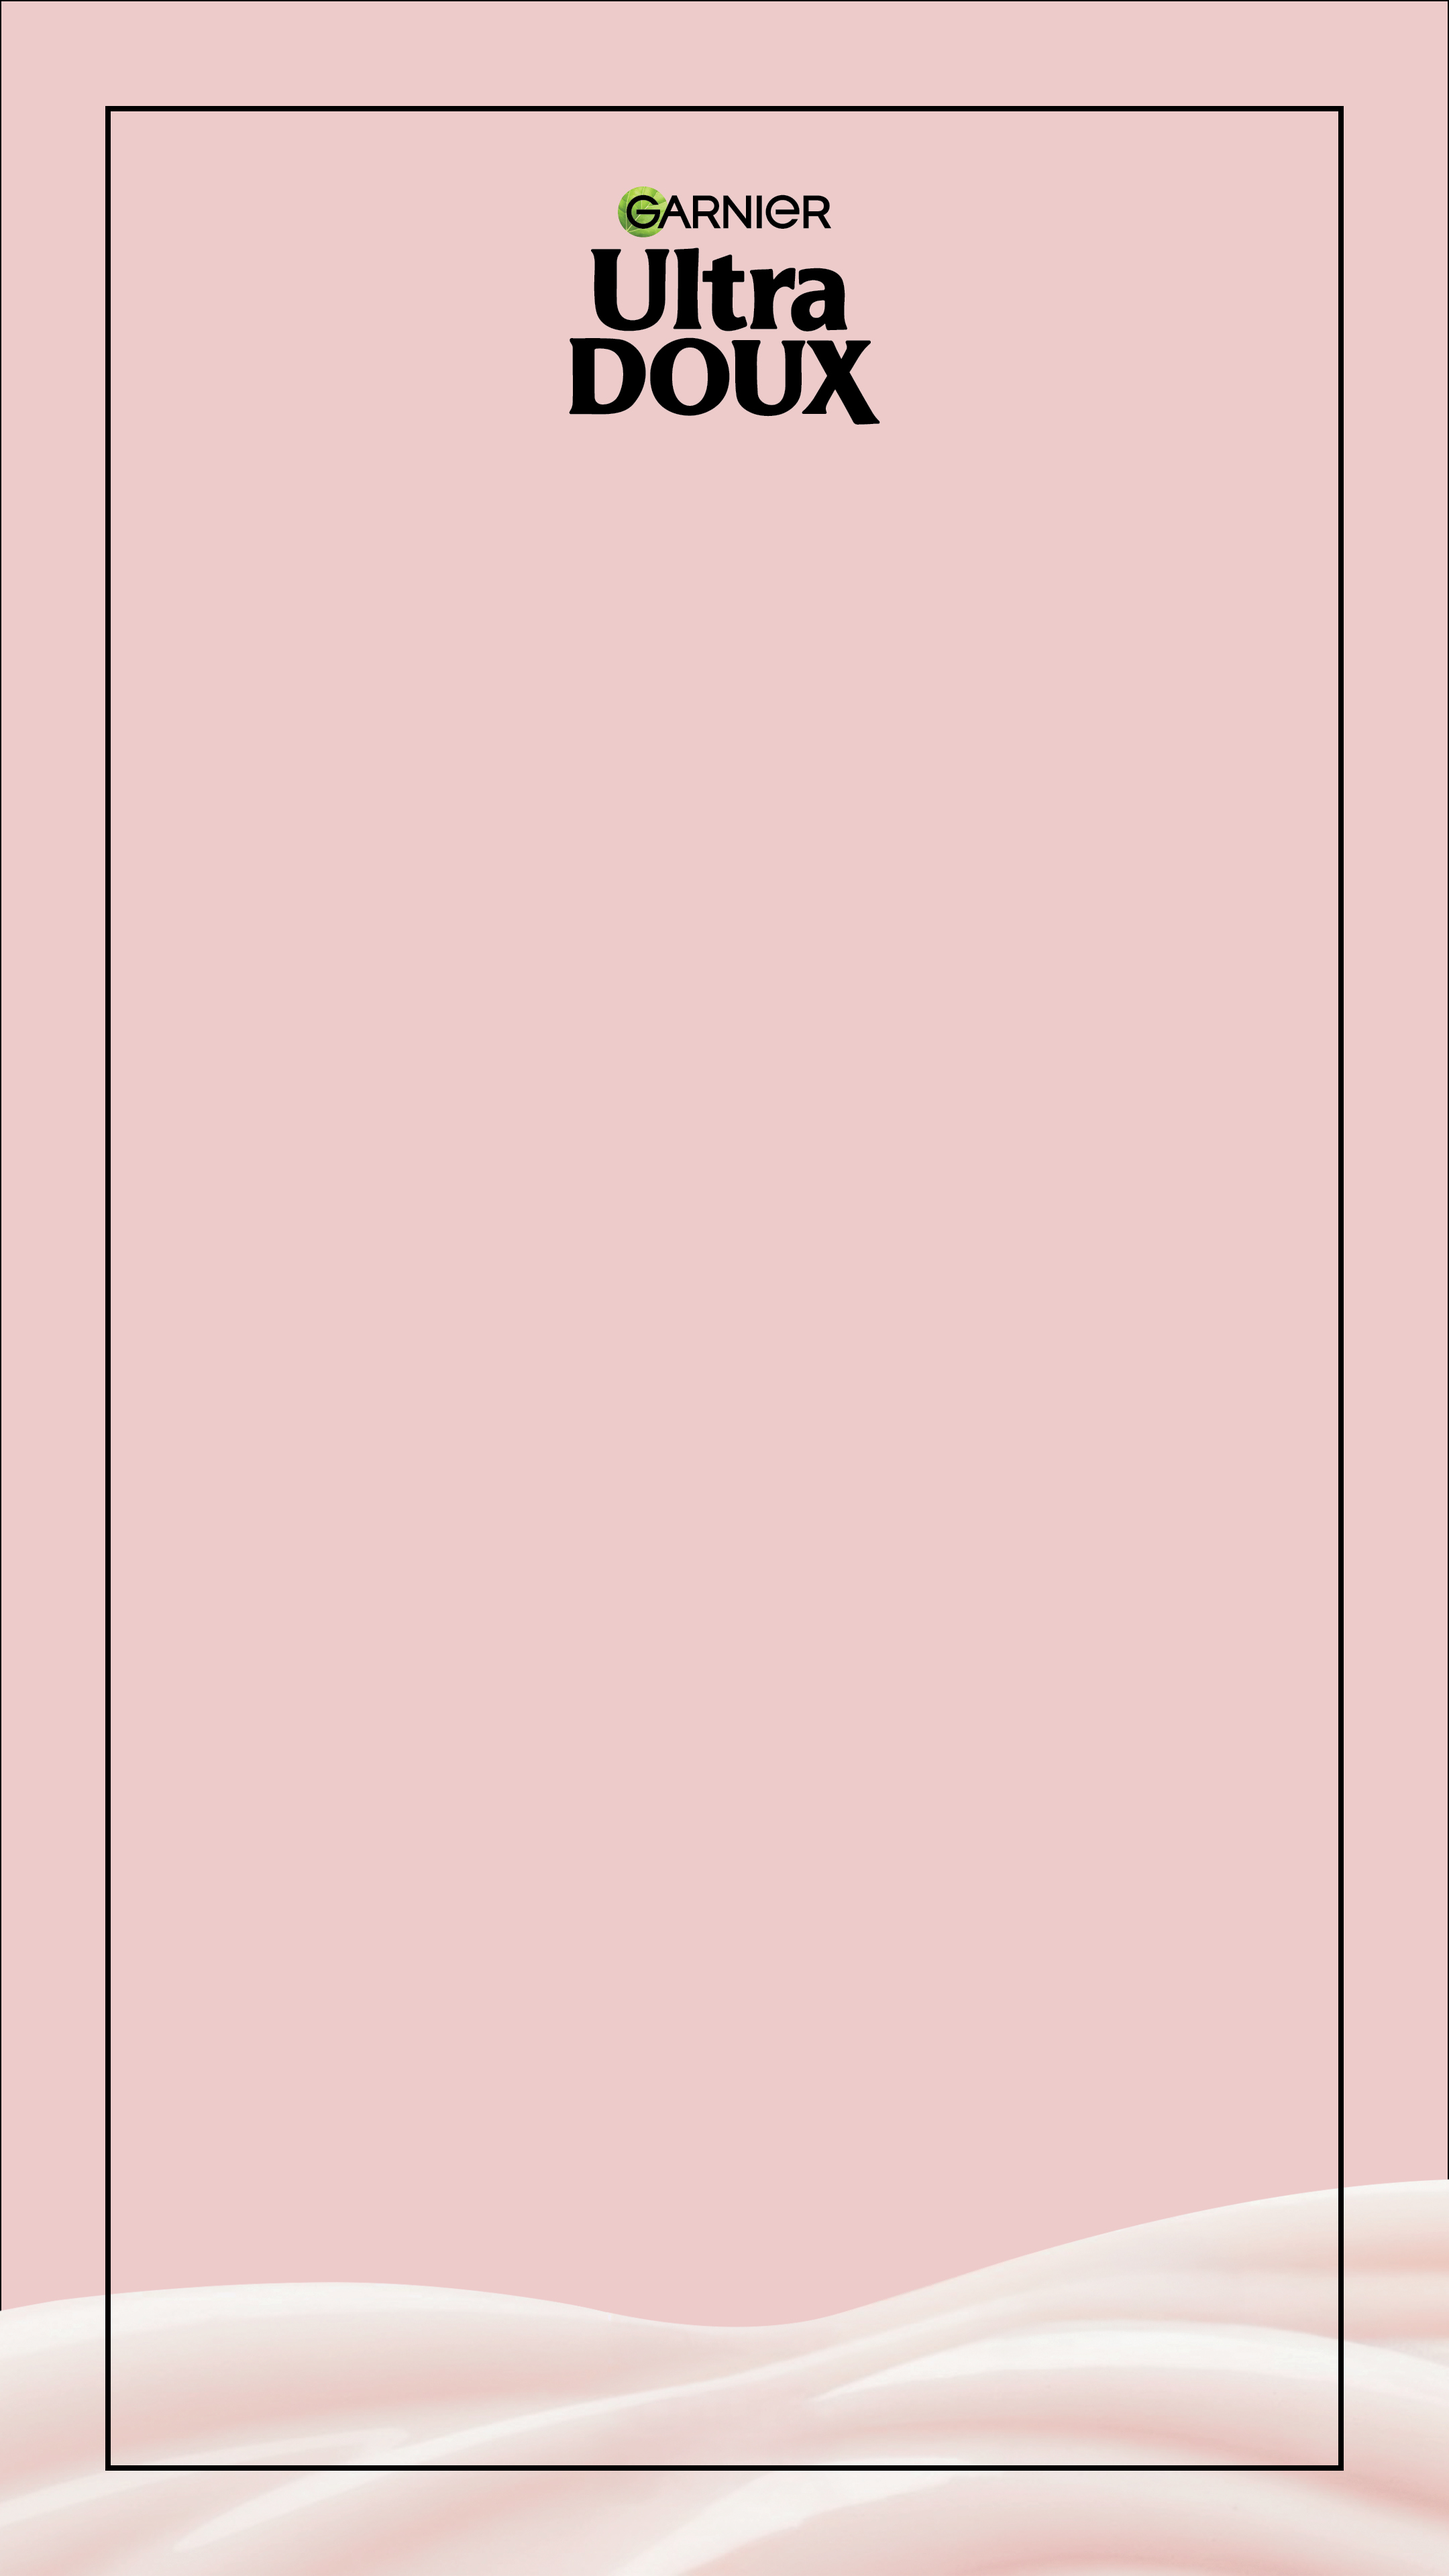
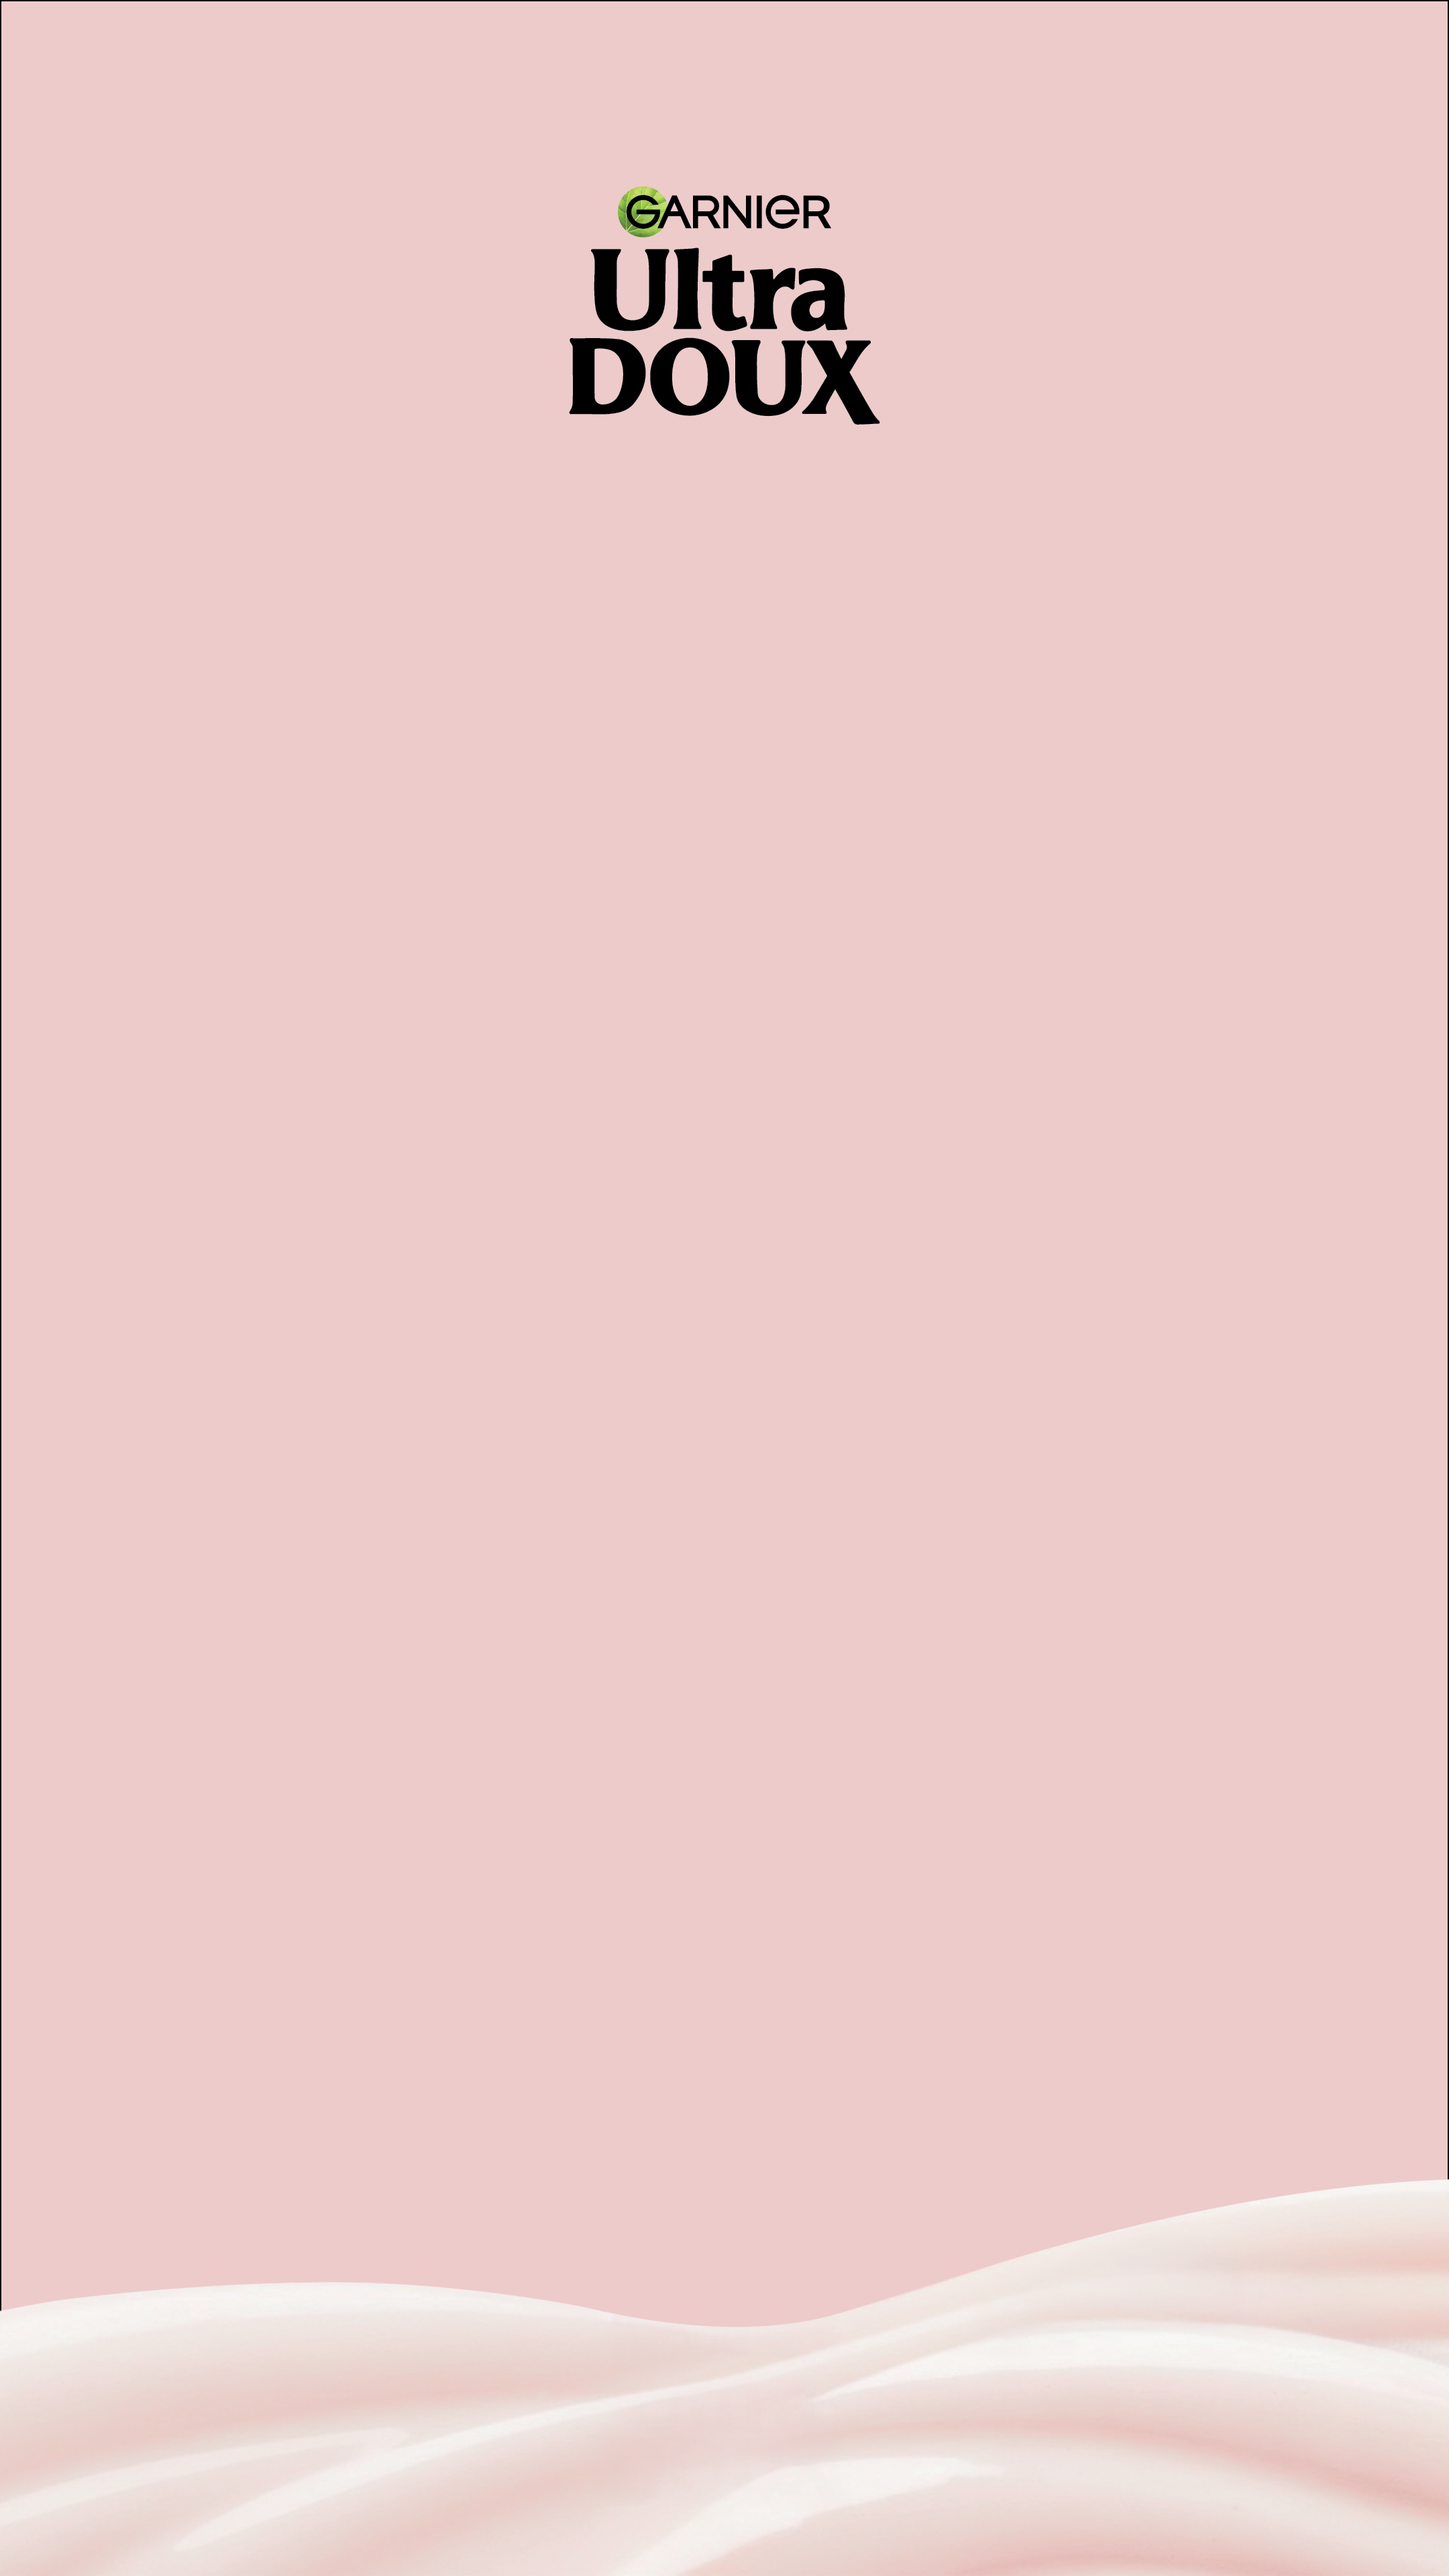
ajustes

Changed region(s): [[0.8995, 0.0312, 0.9306, 0.9688], [0.062, 0.0312, 0.0931, 0.9688]]

diff --git a/css/style.css b/css/style.css
@@ -24,26 +24,36 @@ body {
   display: flex;
   justify-content: center;
   align-items: center;
-  min-height: 100svh;
+  min-height: 100vh;
+}
+.border{
+  display: flex;
+  justify-content: center;
+  align-items: center;
+  border: #000 solid 2px;
+  width: 90%;
+  height: 95svh;
+  z-index: 1;
 }
 
 
 .game-container {
     position: relative;
-    width: 100vw;
-    height: 100svh;
-    max-width: 56.25vh; /* 9:16 aspect ratio */
-    max-height: 177.78vw; /* 16:9 aspect ratio inverted */
-    background: #87CEEB;
+    width: min(100vw, 56.25vh);
+    aspect-ratio: 9 / 16;
     overflow: hidden;
     border-radius: 0;
+    touch-action: none;
+    display: flex;
+    justify-content: center;
+    align-items: center;
 }
 
 
 #backgroundImage {
     position: absolute;
     width: 100%;
-    height: 100svh;
+    height: 100%;
     z-index: 1;
     left: 0;
     top:0;
@@ -52,11 +62,10 @@ body {
 
 #bolhaPrincipal{
   width: 80%;
-  left: 10%;
-  bottom: 45svh;
+  margin-top: 25vh;
   margin-bottom: auto;
   z-index: 2;
-  position: absolute;
+  position: relative;
   animation: zoomSuave 3s ease-in-out infinite;
 }
 
@@ -105,9 +114,28 @@ body {
   position: absolute;
   inset: 0;
   width: 100%;
-  height: 100svh;
+  height: 100%;
 }
 
+/* Vídeo de fundo (nuvens) */
+#backgroundVideo {
+  z-index: 1;
+  object-fit: cover;
+  opacity: 0.8;
+  will-change: transform; /* ajuda em escala/resizes */
+}
+
+#userCamera {
+  position: absolute;
+  inset: 0;
+  width: 100%;
+  height: 100%;
+  object-fit: cover;
+  z-index: 2;    /* acima do fundo, abaixo das bolhas */
+  opacity: 1;    /* visível */
+  transform: scaleX(-1); /* espelho (tire se não quiser) */
+  display: block;
+}
 
 
 @keyframes blink {
@@ -127,17 +155,23 @@ body {
 
 #texto_final{
     position: absolute;
-    bottom: 45svh;
-    left: 50%;
-    transform: translate(-50%, -50%);
-    width: 72%;
-    z-index: 999;
-    text-align: center;
-    color: #fff;
+top: 50%;
+left: 50%;
+transform: translate(-50%, -50%);
+width: 72%;
+z-index: 999;
+text-align: center;
+color: #fff;
     display: none;
 }
 
 
+/* Máscara da pessoa (BodyPix) */
+#userMaskCanvas {
+  z-index: 2;
+  pointer-events: none;
+  transform: scaleX(-1); /* alinha com a câmera espelhada */
+}
 
 /* Canvas do jogo (bolhas) */
 #gameCanvas {
@@ -160,6 +194,7 @@ body {
 #startButton {
    font-family: 'Bodoni', Arial, sans-serif;
   position: absolute;
+  top: 86%;
   left: 50%;
   transform: translate(-50%, -50%); /* centraliza */
   background: linear-gradient(135deg, #ff8c00, #ff6b00);
@@ -178,17 +213,27 @@ body {
 
 /* Placa de pontuação */
 .score-container {
-  position: absolute;   /* use absoluto dentro do container, não fixed */
- 
-  background: none;
-  color: black;
-  border-radius: 0;
-  font-weight: bold;
-  z-index: 5;
- display: none;
-  justify-content: center;
-  user-select: none;
-  pointer-events: none; /* não bloqueia toques no canvas */
+  display: none;
+  position: relative;
+justify-content: auto;
+width: 100%;
+grid-template-columns: 1fr 1fr;
+align-self: end;
+border-top: 2px solid black;
+padding: clamp(5px, 2.5vw, 12px) clamp(18px, 4vw, 36px);
+gap: clamp(22px, 18vw, 100px);
+border-radius: 0;
+box-sizing: border-box;
+}
+.score-container::before {
+  content: "";
+  position: absolute;
+  top: 0;
+  bottom: 0;
+  left: 50%;
+  width: 2px;
+  background: black;
+  transform: translateX(-50%);
 }
 
 .score-item { text-align: center; display: flex; flex-direction: column; align-items: center; }
@@ -214,9 +259,11 @@ display:none;
     padding: 10px 18px;
     font-size: 15px;
      position: absolute;
-  bottom: 15svh;
+  top: 85%;
   left: 50%;
   transform: translate(-50%, -50%); /* centraliza */
+  
+    background: linear-gradient(135deg, #ff8c00, #ff6b00);  color: white;
    border: none;
   padding: 2% 5%;
   border-radius: 0;
@@ -415,17 +462,6 @@ white-space: nowrap;
 }
 
 
-/* ---------- SCORE: versão maior ---------- */
-.score-container{
-position: absolute !important;
-bottom: 20svh;
-width: 85.5svw;
-margin: 0 12%;
-padding: clamp(5px, 2.5vw, 12px) clamp(18px, 4vw, 36px);
-gap: clamp(22px, 18vw, 100px);
-border-radius: 0;
-box-sizing: border-box;
-}
 
 
 

diff --git a/index.html b/index.html
@@ -2,7 +2,7 @@
 <html lang="pt-BR">
 <head>
     <meta charset="UTF-8">
-    <meta name="viewport" content="width=device-width, initial-scale=1, viewport-fit=cover">
+    <meta name="viewport" content="width=device-width, initial-scale=1.0">
     <title>Game Ultra Doux</title>
     <link rel="stylesheet" href="css/style.css">
 <script src="libs/tf.min.js"></script>
@@ -13,28 +13,30 @@
     <div class="game-container">
    
         <img id="backgroundImage" src="images/background1.jpg" alt="Fundo">
-        <img id="bolhaPrincipal" src="images/bolha-principal.png" alt="Bolha">
+       
 
+        <div class="border">
+             <img id="bolhaPrincipal" src="images/bolha-principal.png" alt="Bolha">
+            <!-- Canvas para as bolhas e efeitos -->
+            <canvas id="gameCanvas"></canvas>
+            <img src="images/texto_final.png" id="texto_final" style="display: none;">
+            <button id="startButton">Jouer</button>
+
+            <!-- Controles do jogo -->
+            
+            <div class="score-container">
+                <div class="score-item">
+                    <span class="score-label">SCORE</span>
+                    <span id="scoreValue" class="score-value">0</span>
+                </div>
+                <div class="score-item">
+                    <span class="score-label">TEMPS RESTANT</span>
+                    <span id="timeValue" class="score-value">20</span>
+                </div>
+            </div>   
+        </div>
         
-        <!-- Canvas para as bolhas e efeitos -->
-        <canvas id="gameCanvas"></canvas>
-           <img src="images/texto_final.png" id="texto_final" style="display: none;">
-           <button id="startButton">Jouer</button>
-        <!-- Controles do jogo -->
-         
-          <div class="score-container">
-            <div class="score-item">
-                <span class="score-label">SCORE</span>
-                <span id="scoreValue" class="score-value">0</span>
-            </div>
-            <div class="score-item">
-                <span class="score-label">TEMPS RESTANT</span>
-                <span id="timeValue" class="score-value">20</span>
-            </div>
-        </div>    
-     
-        
-      
+
     
     <script src="libs/script.js"></script>
 </body>

diff --git a/libs/script.js b/libs/script.js
@@ -1,7 +1,3 @@
-/* =========================================================
-   JOGO — 2 loops + produto com delay
-   (IMAGEM de fundo opcional: <img id="backgroundImage">) + APNG no clique
-   ========================================================= */
 
 // ===============================
 // ELEMENTOS DO DOM
@@ -47,10 +43,9 @@ const BUBBLE_RADIUS_MIN       = 140;
 const BUBBLE_RADIUS_MAX       = 150;
 const BUBBLE_SPAWN_INTERVAL   = 500; // ms
 const MAX_BUBBLES             = 10;
-const BUBBLE_LIFETIME = 900;
-const FADE_OUT_DURATION = 300;
-const BUBBLE_APPEAR_DURATION = 400;
-
+const BUBBLE_APPEAR_DURATION  = 1000; // ms
+const BUBBLE_LIFETIME =1500; // Tempo total que a bolha fica na tela
+const FADE_OUT_DURATION = 500; 
 
 // APNG de estouro
 const POP_APNG_SRC        = 'images/gold-bubble.png'; // arquivo APNG (não GIF)
@@ -93,21 +88,14 @@ function imagesReady() {
   document.head.appendChild(style);
 })();
 
-// ===============================
-// FUNÇÃO PARA TROCAR BACKGROUND
-// ===============================
-function setBackground(backgroundNumber) {
-  if (backgroundImageEl) {
-    backgroundImageEl.src = `images/background${backgroundNumber}.jpg`;
-  }
-}
+
 
 // ===============================
 // FUNÇÃO PARA CONTROLAR VISIBILIDADE DO SCORE
 // ===============================
 function setScoreContainerVisibility(visible) {
   if (scoreContainer) {
-    scoreContainer.style.display = visible ? 'flex' : 'none';
+    scoreContainer.style.display = visible ? 'grid' : 'none';
   }
 }
 
@@ -523,7 +511,6 @@ function startGame() {
   clearPlayfieldImmediate();
 document.getElementById("bolhaPrincipal").style.display = "none";
 
-  setBackground(2);
   setScoreContainerVisibility(true);
 
   preStartTimeoutId = setTimeout(() => {
